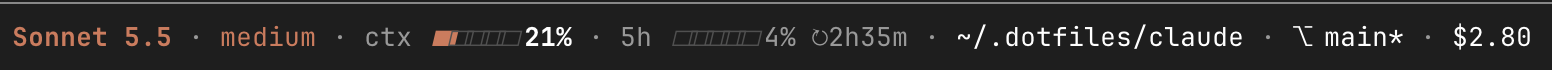
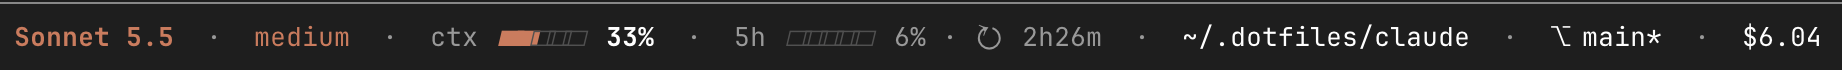
Give the status line room to breathe and refresh the screenshot
Two spaces between a gauge and its percent, a dot and two spaces before the
reset time, and a wider default separator (a dot with two spaces each side).
Updates the README screenshot to match.

Changed region(s): [[0.0, 0.3429, 0.9897, 0.7143]]

diff --git a/hooks/format.test.ts b/hooks/format.test.ts
@@ -35,7 +35,17 @@ test('summaryLine joins the figures on one line', () => {
   const text = summaryLine(figures, 0)
     .map(part => part.text)
     .join('')
-  expect(text).toBe('Opus 5.5 · high · ctx ▰▰▱▱▱ 40% · 5h - · ~/app')
+  expect(text).toBe('Opus 5.5  ·  high  ·  ctx ▰▰▱▱▱  40%  ·  5h -  ·  ~/app')
+})
+
+test('limit and context segments give the gauge, percent and reset room to breathe', () => {
+  const now = Date.parse('2026-10-20T00:00:00Z')
+  const base = { dir: null, git: null, model: null, effort: null }
+  const text = summaryLine({ ...base, ctxPct: 26, fiveHour: { pct: 5, resetsAt: '2026-10-20T02:30:00Z' } }, now)
+    .map(part => part.text)
+    .join('')
+  expect(text).toContain('ctx ▰▱▱▱▱  26%')
+  expect(text).toContain('5h ▱▱▱▱▱  5% · ↻  2h30m')
 })
 
 test('summaryLine shows 7d and cost only once they matter', () => {

diff --git a/hooks/format.ts b/hooks/format.ts
@@ -5,6 +5,8 @@ export type Line = Part[]
 
 const LIMIT_GAUGE_WIDTH = 5
 export const PENDING = '-'
+export const PERCENT_GAP = '  '
+const RESET_JOINT = ' · '
 const MAX_DIR_WIDTH = 32
 const MAX_BRANCH_WIDTH = 18
 const CONTEXT_WARN_PCT = 50
@@ -88,9 +90,9 @@ export const limitLine = (label: string, limit: Limit | undefined, now: number):
     { text: `${label} `, dim: true },
     ...gaugeParts(limit.pct, LIMIT_GAUGE_WIDTH, color),
     color === 'claude'
-      ? { text: ` ${Math.round(limit.pct)}%`, dim: true }
-      : { text: ` ${Math.round(limit.pct)}%`, color },
-    ...(eta ? [{ text: ` ↻${eta}`, dim: true }] : []),
+      ? { text: `${PERCENT_GAP}${Math.round(limit.pct)}%`, dim: true }
+      : { text: `${PERCENT_GAP}${Math.round(limit.pct)}%`, color },
+    ...(eta ? [{ text: `${RESET_JOINT}↻  ${eta}`, dim: true }] : []),
   ]
 }
 

diff --git a/hooks/segments.ts b/hooks/segments.ts
@@ -1,6 +1,6 @@
 import type { Extra, Figures } from '../types'
 
-import { contextColor, formatGit, gaugeParts, limitLine, modelPart, PENDING, shortDir } from './format'
+import { contextColor, formatGit, gaugeParts, limitLine, modelPart, PENDING, PERCENT_GAP, shortDir } from './format'
 import type { Line } from './format'
 import { BUILTIN_IDS, DEFAULT_SETTINGS } from './settings'
 import type { BuiltinId, Mode, Settings } from './settings'
@@ -19,7 +19,7 @@ const contextSegment = ({ figures }: Context): Line => {
   return [
     { text: 'ctx ', dim: true },
     ...gaugeParts(figures.ctxPct, CONTEXT_GAUGE_WIDTH, contextColor(figures.ctxPct)),
-    { text: ` ${Math.round(figures.ctxPct)}%`, bold: true },
+    { text: `${PERCENT_GAP}${Math.round(figures.ctxPct)}%`, bold: true },
   ]
 }
 

diff --git a/hooks/segments.test.ts b/hooks/segments.test.ts
@@ -28,7 +28,7 @@ test('parseSettings reads modes, numbers and lists, and falls back on bad values
   expect(settings.costMinUsd).toBe(3)
   expect(settings.order).toEqual(['cost', 'model'])
   expect(settings.hidden).toEqual(['ext:deploy'])
-  expect(parseSettings({}).separator).toBe(' · ')
+  expect(parseSettings({}).separator).toBe('  ·  ')
 })
 
 test('never hides a segment and always forces one past its threshold', () => {

diff --git a/hooks/settings.ts b/hooks/settings.ts
@@ -25,7 +25,7 @@ export const MODES: readonly Mode[] = ['auto', 'always', 'never']
 
 const DEFAULT_WEEK_MIN_PCT = 60
 const DEFAULT_COST_MIN_USD = 1
-const DEFAULT_SEPARATOR = ' · '
+const DEFAULT_SEPARATOR = '  ·  '
 
 export const DEFAULT_SETTINGS: Settings = {
   modes: Object.fromEntries(BUILTIN_IDS.map(id => [id, 'auto'])) as Record<BuiltinId, Mode>,

diff --git a/README.md b/README.md
@@ -58,7 +58,7 @@ Gauges turn to the theme's warning color from 60% and its error color from 85% (
 | `show_<id>` | `auto` | `auto`, `always` or `never` for each segment above |
 | `week_min_pct` | `60` | usage at which `auto` shows the 7-day limit |
 | `cost_min_usd` | `1` | cost at which `auto` shows the cost |
-| `separator` | ` · ` | text between segments |
+| `separator` | `  ·  ` (a dot with two spaces each side) | text between segments |
 | `order` | empty | comma list of ids, first to last; the rest follow in default order |
 | `hidden_segments` | empty | comma list of drop-in ids to hide |
 
